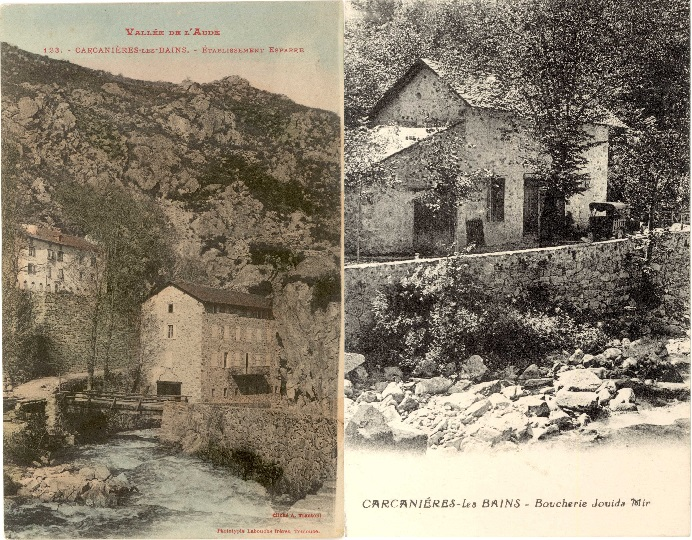
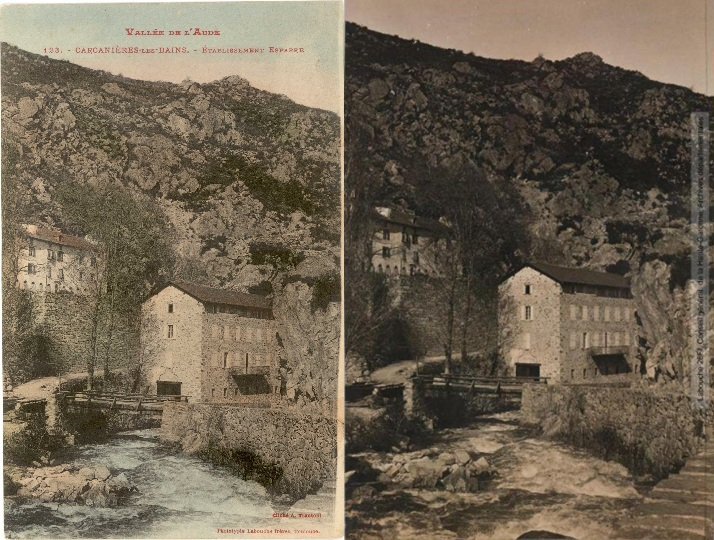
escouloubre suite 7

diff --git a/ayguette/ayguette_cpa.html b/ayguette/ayguette_cpa.html
@@ -153,8 +153,6 @@
       <img src="imagcpa/escouloubre/CPA%20Meynier%201%20Carcani%C3%A8res%20l'Aude%20le%20torrent.jpg" alt="Carcanières l'Aude le torrent" width="720" height="458">
       <img src="imagcpa/escouloubre/CPA%20Meynier%20autobus%20faisant%20le%20service%20d'Axat,%20Usson,%20Carcani%C3%A8res%20et%20Escouloubre.jpg" alt="Autobus faisant le service d'Axat, Usson, Carcanières et Escouloubre" width="720" height="461">
       <img src="imagcpa/escouloubre/CPA%20Meynier%20Carcani%C3%A8res%20Escouloubre%20l'%C3%A9glise.jpg" alt="Carcanières Escouloubre l'église" width="720" height="460">
-      <img src="imagcpa/escouloubre/CPA%20Meynier%20bains%20d'%20Escouloubre%20%C3%A9tablissement%20Esparre.jpg" alt="bains d' Escouloubre établissement Esparre" width="720" height="462">
-      <img src="imagcpa/escouloubre/CPA%20Meynier%20Escouloubre%20les%20bains%20Haute%20Vall%C3%A9e%20de%20l'Aude%20h%C3%B4tel%20Esparre.jpg" alt="Escouloubre les bains Haute Vallée de l'Aude hôtel Esparre" width="720" height="456">
       <img src="imagcpa/escouloubre/CPA%20Meynier%201%20Carcani%C3%A8res%20%C3%A9tablissement%20Esparre,%20chalet%20de%20la%20Cascade.jpg" alt="Carcanières établissement Esparre, chalet de la Cascade" width="720" height="466">
       <a href="https://inventaire.patrimoines.laregion.fr/illustration/ivr7620201113026nuca/ddbff082-46f5-4bb4-8089-fd2fa4489762"><img src="imagcpa/escouloubre/inventaire2/inventaire-Escouloubre-les-bains%20-%20Etablissement%20Sarda-Bonnail%20-%20Caf%C3%A9%20-%20Bains.jpg" alt="Escouloubre-les-bains - Etablissement Sarda-Bonnail - Café - Bains" width="750" height="479"></a>
       <img src="imagcpa/escouloubre/CPA%20Meynier%20Escouloubre%20les%20Bains%20%C3%A9tablissement%20Sarda%20Bonnail,%20nouvel%20h%C3%B4tel.jpg" alt="Escouloubre les Bains établissement Sarda Bonnail, nouvel hôtel" width="720" height="458">
@@ -182,7 +180,10 @@
       <img src="imagcpa/escouloubre/CPA%20Meynier%20Carcani%C3%A8res%20et%20Escouloubre%20%C3%A9tablissements%20de%20Roquelaure.jpg" alt="Carcanières et Escouloubre établissements de Roquelaure" width="720" height="453">
       <a href="https://inventaire.patrimoines.laregion.fr/illustration/ivr7620201113025nuca/4fdd0b17-ca66-4df4-9691-a17942a96741"><img src="imagcpa/escouloubre/inventaire2/inventaire-bains%20de%20Carcani%C3%A8res%20Etablissements%20Esparre.jpg" alt="bains de Carcanières Etablissements Esparre" width="750" height="469"></a>
       <a href="../complement3/archives-Haute-Garonne/archive-Haute-Garonne.html?#cpa123lb"><img src="imagcpa/escouloubre/CPA%20Meynier%20Escouloubre%20les%20Bains%20%C3%A9tablissement%20Esparre.jpg" alt="Escouloubre les Bains établissement Esparre" width="348" height="540"></a>
-      <img src="imagcpa/escouloubre/CPA%20Meynier%201%20Carcani%C3%A8res%20les%20Bains%20%C3%A9tablissement%20Esparre.jpg" alt="Carcanières les Bains établissement Esparre" width="692" height="540">
+      <a href="../complement3/archives-Haute-Garonne/archive-Haute-Garonne.html?#cpalb123"><img src="imagcpa/escouloubre/CPA%20Meynier%201%20Carcani%C3%A8res%20les%20Bains%20%C3%A9tablissement%20Esparre.jpg" alt="Carcanières les Bains établissement Esparre - Meynier et archive de la haute Garonne" width="714" height="540"></a>
+      <img src="imagcpa/escouloubre/CPA%20Meynier%20bains%20d'%20Escouloubre%20%C3%A9tablissement%20Esparre.jpg" alt="bains d' Escouloubre établissement Esparre" width="720" height="462">
+      <img src="imagcpa/escouloubre/CPA%20Meynier%20Escouloubre%20les%20bains%20Haute%20Vall%C3%A9e%20de%20l'Aude%20h%C3%B4tel%20Esparre.jpg" alt="Escouloubre les bains Haute Vallée de l'Aude hôtel Esparre" width="720" height="456">
+      <a href="../complement3/archives-Haute-Garonne/archive-Haute-Garonne.html?#cpalbaut"><img src="../complement3/archives-Haute-Garonne/imageaiguette/Escouloubre%20Carcanni%C3%A8res%20-%20%C3%A9tablissement%20thermal%20Esparre%20-%20photographie%20Am%C3%A9d%C3%A9e%20Trantoul%20(1837-1910)%20%20maison%20Labouche%20fr%C3%A8res,%20entre%201900%20et%201910-recto.png" alt="Escouloubre Carcannières [Carcanières] : établissement thermal Esparre / photographie Amédée Trantoul (1837-1910). - Toulouse : maison Labouche frères, [entre 1900 et 1910]. - Photographie (1900/1910) - recto" width="366" height="571"></a>
       <a href="https://inventaire.patrimoines.laregion.fr/illustration/IVR76_20200913137NUCA"><img src="imagcpa/escouloubre/inventaire2/inventaire-Carcani%C3%A8res%20-%20les%20Etablissements.jpg" alt="Carcanières - les Etablissements" width="750" height="483"></a>
       <a href="../complement3/archives-Haute-Garonne/archive-Haute-Garonne.html?#cpa124lb">archives Haute-Garonne CPA LB 124 - 1</a>
       <a href="https://inventaire.patrimoines.laregion.fr/illustration/ivr7620200913138nuca/8a60db3c-8162-425e-a6e9-bd52a4cb1118"><img src="imagcpa/escouloubre/inventaire2/inventaire-Carcani%C3%A8res%20Ensemble%20des%20Etablissements.jpg" alt="Carcanières Ensemble des Etablissements" width="750" height="482"></a>
@@ -192,8 +193,8 @@
       <a href="https://inventaire.patrimoines.laregion.fr/illustration/ivr7620200913143nuca/bed1a352-ba4b-4e63-9ef9-35c4dfd8d523"><img src="imagcpa/escouloubre/inventaire2/inventaire-Bains%20de%20Carcani%C3%A8res%20-%20Chalet%20des%20Tilleuls.jpg" alt="Bains de Carcanières - Chalet des Tilleuls" width="750" height="478"></a>
       <img src="imagcpa/escouloubre/CPA%20Meynier%201%20Carcani%C3%A8res%20les%20bains.jpg" alt="Carcanières les bains" width="720" height="461">
       <img src="imagcpa/escouloubre/CPA%20Meynier%20Escouloubre%20avenue%20des%20Bains,%20%C3%A9tablissement%20Sarda%20Bonnail.jpg" alt="Escouloubre avenue des Bains, établissement Sarda Bonnail" width="720" height="454">
-      <a href="../complement3/archives-Haute-Garonne/archive-Haute-Garonne.html?#cpalb122"><img src="imagcpa/escouloubre/CPA%20Meynier%20Escouloubre%20les%20Bains%20H%C3%B4tel%20Bonnail.jpg" alt="Escouloubre les Bains Hôtel Bonnail" width="720" height="454"></a>
-      <a href="../complement3/archives-Haute-Garonne/archive-Haute-Garonne.html?#cpalb122b"><img src="../complement3/archives-Haute-Garonne/imageaiguette/222%20bis%20Carcani%C3%A8res%20%C3%A9tablissement%20Bonnail%20-%20maison%20Labouche%20fr%C3%A8res,%20entre%201900%20et%201940-recto.png" alt="Vallée de l'Aude. 222 bis. Carcanières : établissement Bonnail. - Toulouse : maison Labouche frères, [entre 1900 et 1940]. - Photographie (1900/1940) - recto" width="795" height="507"></a>
+      <a href="../complement3/archives-Haute-Garonne/archive-Haute-Garonne.html?#cpalb222"><img src="imagcpa/escouloubre/CPA%20Meynier%20Escouloubre%20les%20Bains%20H%C3%B4tel%20Bonnail.jpg" alt="Escouloubre les Bains Hôtel Bonnail" width="720" height="454"></a>
+      <a href="../complement3/archives-Haute-Garonne/archive-Haute-Garonne.html?#cpalb222b"><img src="../complement3/archives-Haute-Garonne/imageaiguette/222%20bis%20Carcani%C3%A8res%20%C3%A9tablissement%20Bonnail%20-%20maison%20Labouche%20fr%C3%A8res,%20entre%201900%20et%201940-recto.png" alt="Vallée de l'Aude. 222 bis. Carcanières : établissement Bonnail. - Toulouse : maison Labouche frères, [entre 1900 et 1940]. - Photographie (1900/1940) - recto" width="795" height="507"></a>
       <img src="imagcpa/escouloubre/CPA%20Meynier%20Escouloubre%20les%20Bains%20h%C3%B4tel%20Bonnail%20Sarda.jpg" alt="Escouloubre les Bains hôtel Bonnail Sarda" width="720" height="458">
       <img src="imagcpa/escouloubre/CPA Meynier%20Escouloubre%20les%20Bains%20h%C3%B4tel%20Bonnail%20Sarda%202.jpg" alt="Escouloubre les Bains hôtel Bonnail Sarda 2" width="720" height="461">
       <img src="imagcpa/escouloubre/CPA%20Meynier%20Escouloubre%20les%20bains%20h%C3%B4tel%20Bonnail%20Sarda%203.jpg" alt="Escouloubre les bains hôtel Bonnail Sarda 3" width="720" height="466">
@@ -237,6 +238,8 @@
       <img src="imagcpa/escouloubre/CPA%20Meynier%20Escouloubre%20les%20Bains%20%C3%A9tablissement%20Sarda%20Bonnail%20l'autobus.jpg" alt="Escouloubre les Bains établissement Sarda Bonnail l'autobus" width="720" height="464">
       <a href="https://inventaire.patrimoines.laregion.fr/illustration/ivr7620201113020nuca/08de7b63-e90f-469e-8648-ec86de562f8d"><img src="imagcpa/escouloubre/inventaire2/inventaire-Escouloubre-les-bains%20-%20Etablissement%20Sarda%20Bonnail%20-%20Villa%20Marguerite.jpg" alt="Escouloubre-les-bains - Etablissement Sarda Bonnail - Villa Marguerite" width="750" height="487"></a>
       <a href="https://inventaire.patrimoines.laregion.fr/illustration/ivr7620200913140nuca/9fe73e5c-5f60-4c32-a9fd-f706c15927ef"><img src="imagcpa/escouloubre/inventaire2/inventaire-Carcani%C3%A8res-les-bains%20-%20Maison%20M%C3%A9dus.jpg" alt="Carcanières-les-bains - Maison Médus" width="750" height="473"></a>
+      <a href="../complement3/archives-Haute-Garonne/archive-Haute-Garonne.html?#phototouring"><img src="../complement3/archives-Haute-Garonne/imageaiguette/Vue de Carcanières - 11-14 juillet 1897. - Photographie (1897).png" alt="Vue de Carcanières. - 11-14 juillet 1897. - Photographie (1897) - cartes postales Labouche et photographies de la collection de M. Pierre Olive - Excursions de l'association la Tortue" width="795" height="592"></a>
+      <a href="../complement3/archives-Haute-Garonne/archive-Haute-Garonne.html?#phototortue"><img src="../complement3/archives-Haute-Garonne/imageaiguette/Gorge%20d'Escouloubre-les-Bains%20-%20photographie%20Touring-Club%20de%20France.%20-%201900-1920.png" alt="Gorge d'Escouloubre-les-Bains / photographie Touring-Club de France. - [entre 1900 et 1920] - Jardin Botanique et Arboretum Henri Gaussen" width="629" height="548"></a>
       <a href="https://inventaire.patrimoines.laregion.fr/illustration/ivr7620200913148nuca/5880b12b-ac03-4ccc-8e0d-7425fed8c0fe">
       <img src="imagcpa/escouloubre/inventaire2/inventaire-Un%20Bonjour%20de%20Carcani%C3%A8res.jpg" alt="Un Bonjour de Carcanières" width="750" height="484"></a>
       <a href="http://www.sesa-aude.fr/escouloubre"><img src="imagcpa/escouloubre/SESA%20Escouloubre-les-bains%20-%20Carte%20double%20-%20notice.jpg" alt="SESA Escouloubre-les-bains - Carte double - notice" width="366" height="560"></a>